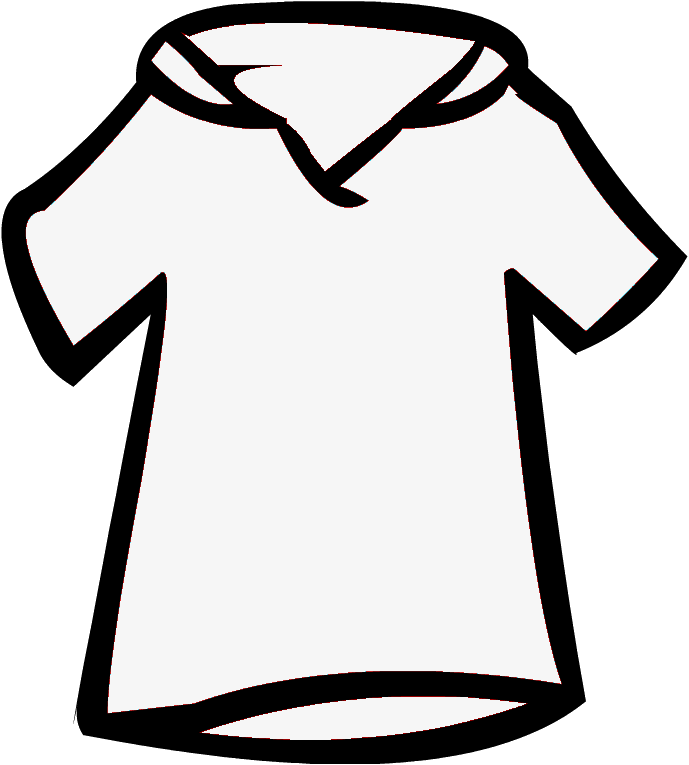
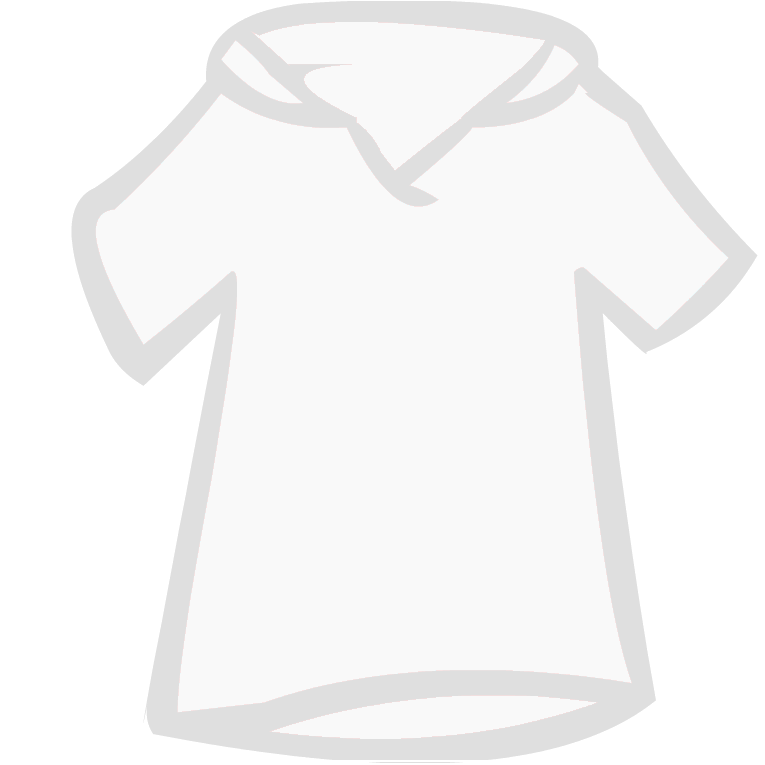
better picture

Changed region(s): [[0.0, 0.0, 1.0, 1.0]]

diff --git a/ClothingThumbnail.cpp b/ClothingThumbnail.cpp
@@ -2,11 +2,15 @@
 #include <QPixmap>
 #include <QEvent>
 
-ClothingThumbnail::ClothingThumbnail(ClothingItem someClothing, bool acceptTouchEvents)
+ClothingThumbnail::ClothingThumbnail(ClothingItem someClothing, bool acceptTouchEvents, bool thumbnail)
 : itemId(someClothing.getItemID())
 {
     QPixmap* clothingImage = new QPixmap();
-    clothingImage->convertFromImage(someClothing.getThumbnail());
+    if(thumbnail){
+        clothingImage->convertFromImage(someClothing.getThumbnail());
+    } else {
+        clothingImage->convertFromImage(someClothing.getImage());        
+    }
     this->setPixmap(*clothingImage);
     if(acceptTouchEvents){
         setAttribute(Qt::WA_AcceptTouchEvents);

diff --git a/ClosetUi.cpp b/ClosetUi.cpp
@@ -85,8 +85,8 @@ void ClosetUi::AddDefaultLayout()
 {
     QImage * defaultThumbnail = new QImage(":/Resources/whiteshirt.png");
     ClothingItem * defaultShirt = new ClothingItem();
-    defaultShirt->setThumbnail(*defaultThumbnail);
-    ClothingThumbnail* clothingThumbnail = new ClothingThumbnail(*defaultShirt, false);
+    defaultShirt->setImage(*defaultThumbnail);
+    ClothingThumbnail* clothingThumbnail = new ClothingThumbnail(*defaultShirt, false, false);
     clothingThumbnail->setStyleSheet("background-color: none; border: none;");
     clothesContainerLayout->addWidget(clothingThumbnail, 1, 1);
 

diff --git a/ClothingThumbnail.h b/ClothingThumbnail.h
@@ -11,7 +11,7 @@ class ClothingThumbnail : public QLabel
 {
 	Q_OBJECT
 public:
-	ClothingThumbnail(ClothingItem someClothing, bool acceptTouchEvents = true);
+	ClothingThumbnail(ClothingItem someClothing, bool acceptTouchEvents = true, bool thumbnail = true);
 	~ClothingThumbnail();
 	bool event(QEvent* event);
 
